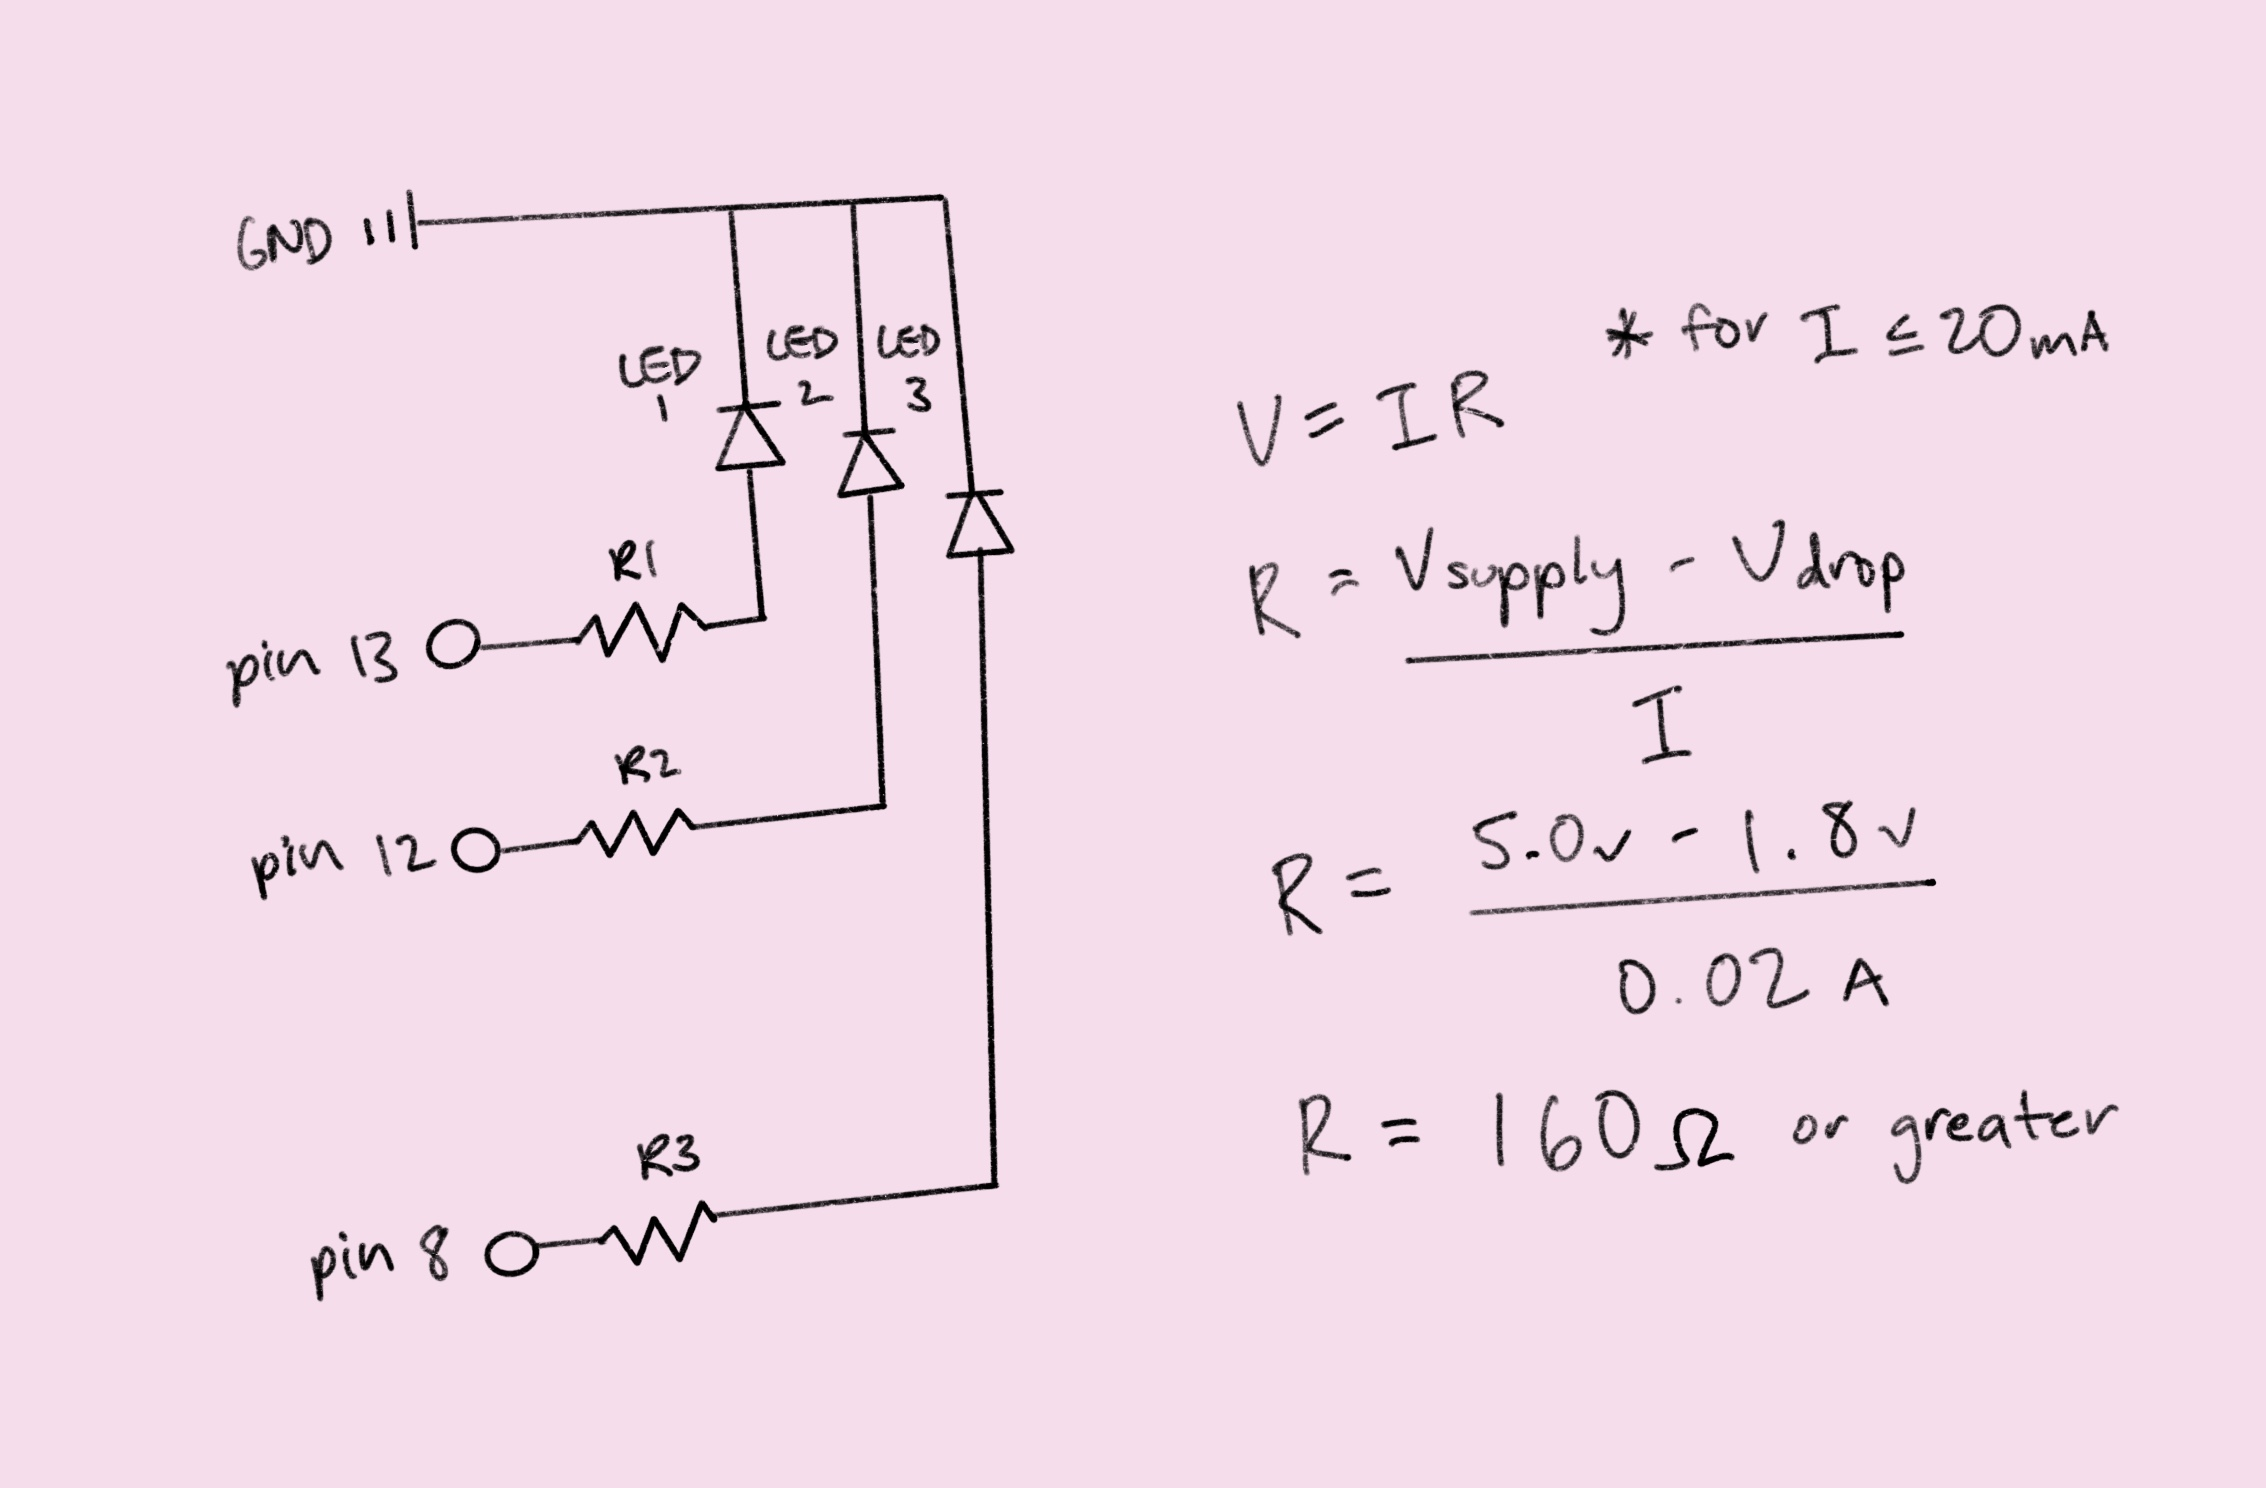
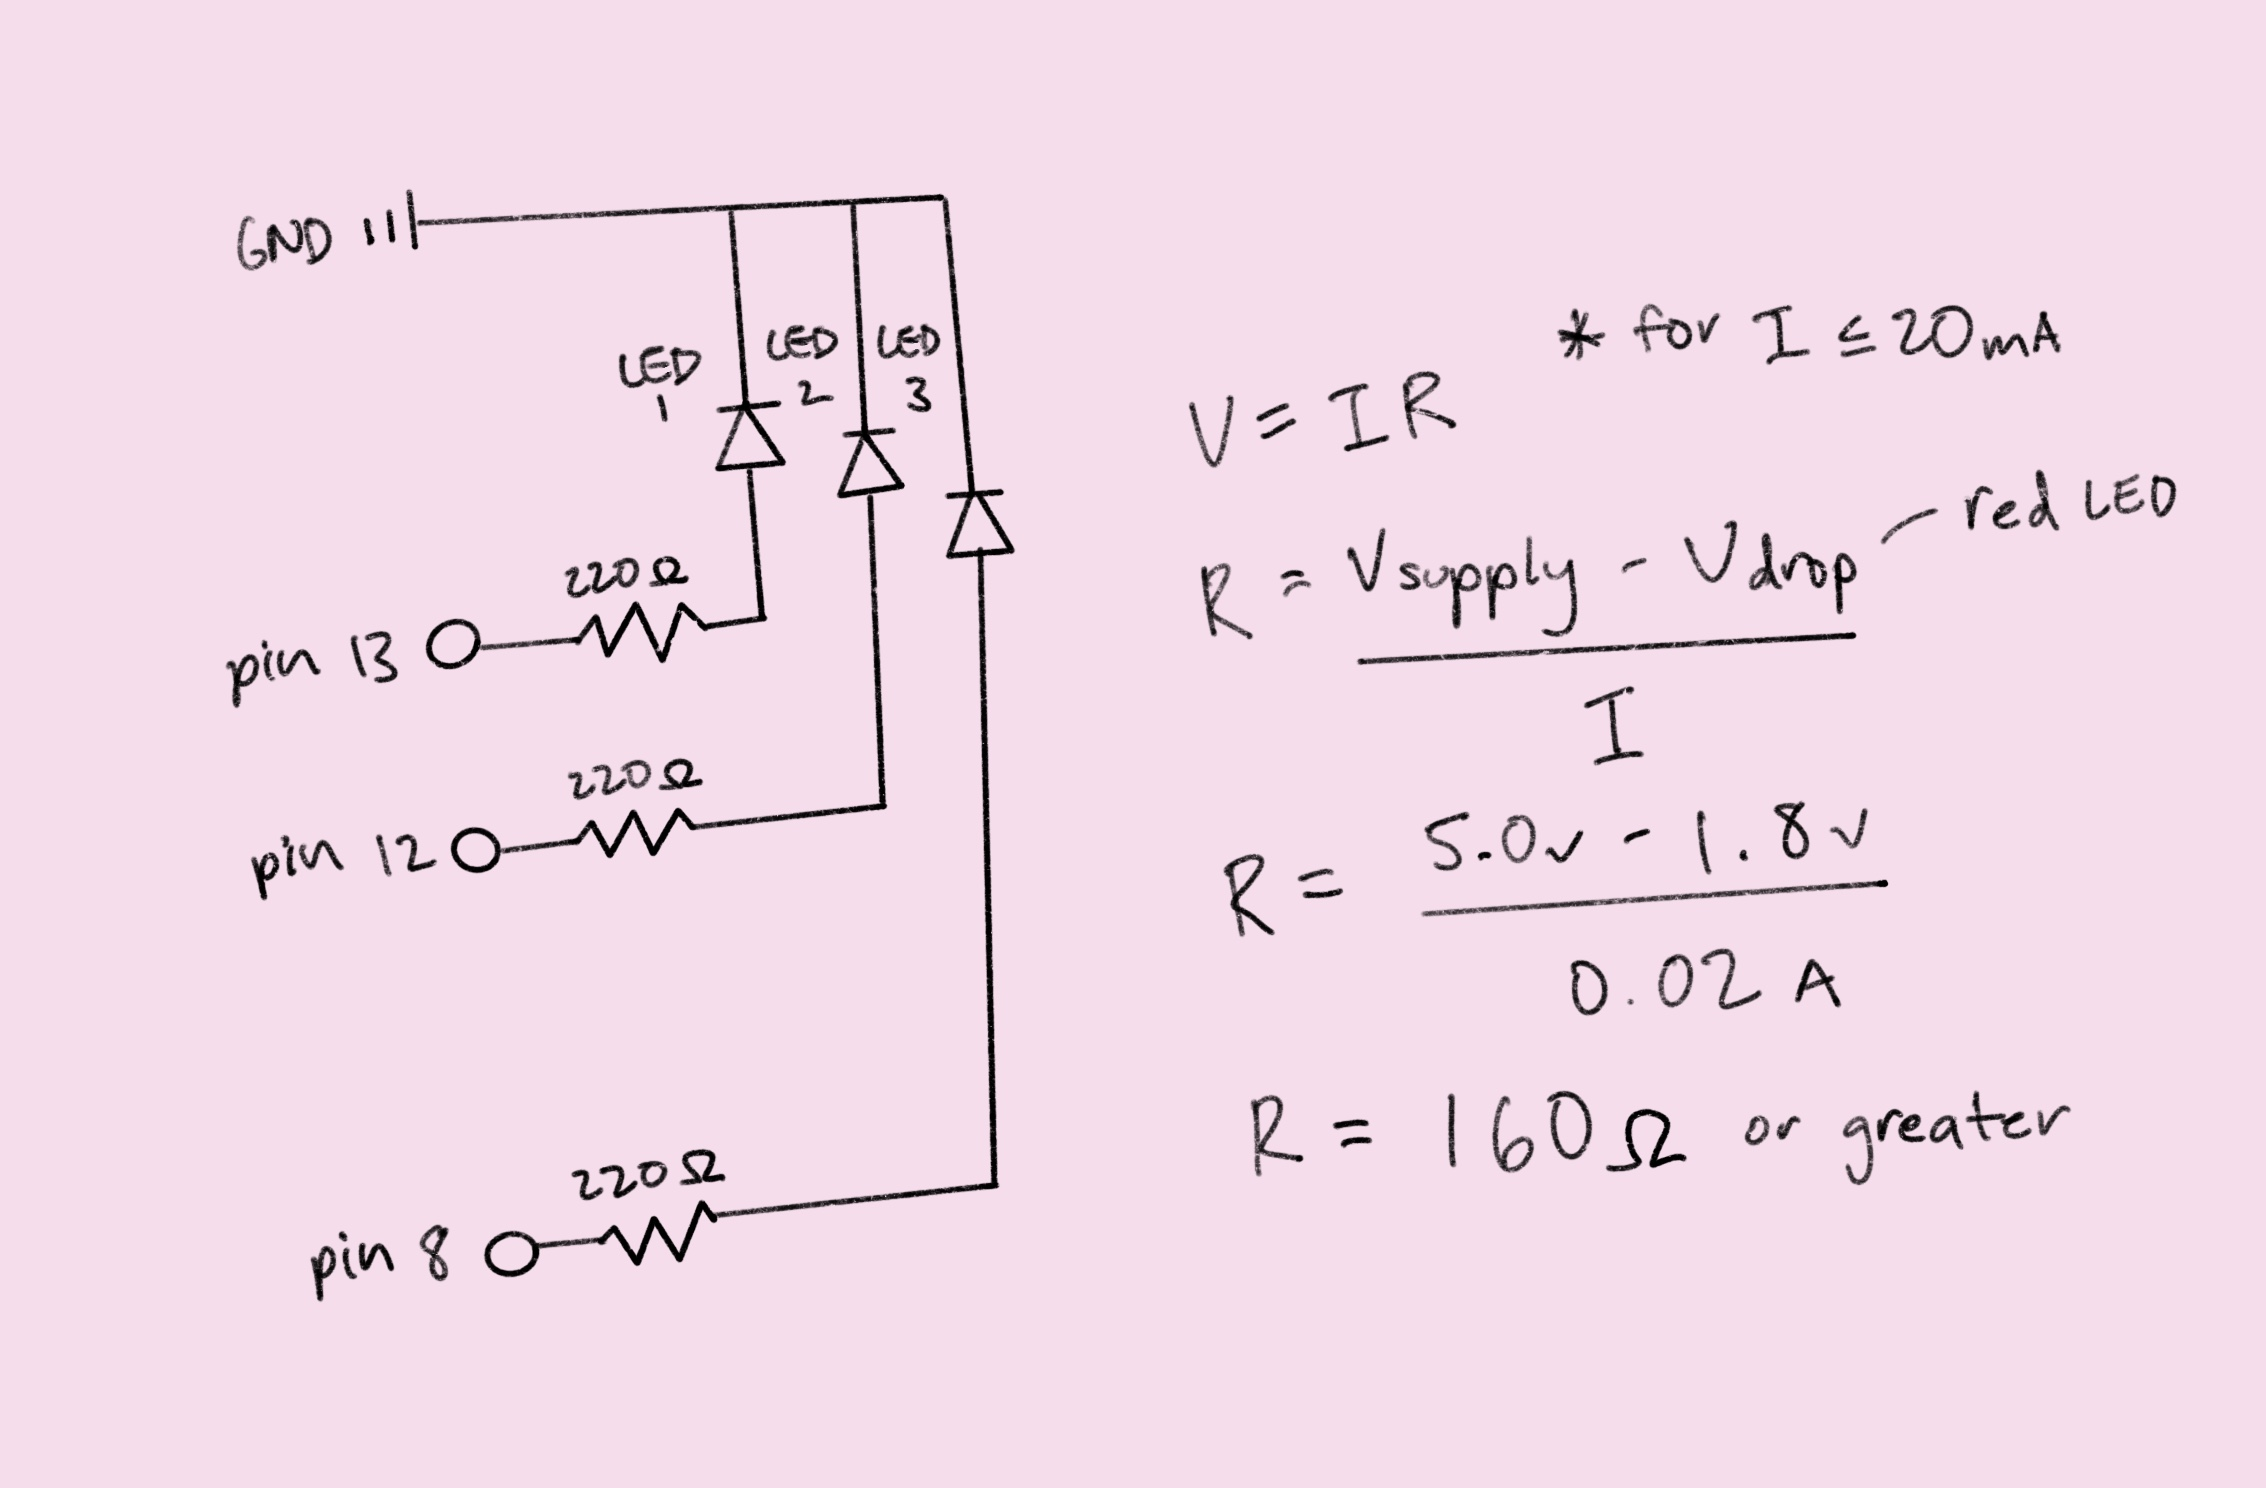
A1—fixed schematic

diff --git a/a1.html b/a1.html
@@ -14,12 +14,12 @@
     <div class="document">
       <img src="A1-Schematic.jpg" />
       <p>
-        The circuit schematic shows three 220Ω resistors (R1, R2, and R3) connected to three red LED
-        lights (LED 1, LED 2, and LED 3) and digital pins 8, 12, and 13 on an Arduino Uno. To the
-        right of the schematic are the calculations for resistance, given 5V of power and a desired
-        current of 20mA or less. We assume that there is a voltage drop of 1.8V across a single red
-        LED. The calculations showed that a resistance of 160Ω or greater for each LED would be
-        appropriate for the circuit.
+        The circuit schematic shows three pairs of 220Ω resistors and red LED lights connected to
+        digital pins 8, 12, and 13 on an Arduino Uno. To the right of the schematic are the
+        calculations used to find the necessary resistance, given 5V of power and a desired current
+        of 20mA or less. We assume that there is a voltage drop of 1.8V across a single LED, so a
+        resistance of 160Ω or greater would be approriate. 220Ω resistors were selected only because
+        they were the most readily available.
       </p>
     </div>
 
@@ -89,8 +89,8 @@
       <p>
         2. The Arduino Uno has 14 digital pins. To blink LEDs independently, each LED would typically
         require one pin, so in theory, the Arduino could blink up to 14. However, that depends on
-        whether or not it could handle the sum of currents drawn from each resistor/LED pair. For this
-        assignment, the sum of currents could be up to 280mA, equal to 20mA times 14.
+        whether or not it could handle the sum of currents drawn from each resistor/LED pair. For the
+        circuit in this assignment, the sum of currents could be up to 280mA, equal to 20mA times 14.
       </p>
       <p>
         3. Based on visual observation, a range of 10-12ms is where the LEDs appear to no longer be
